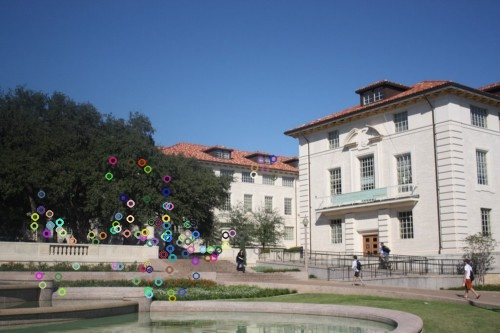
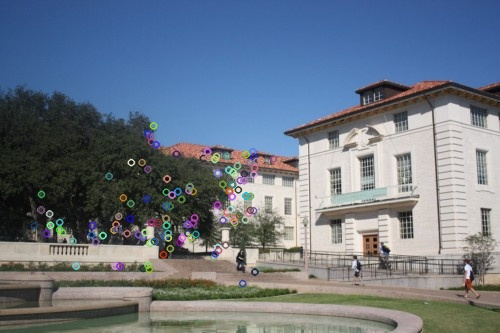
Implement first step of filtering

diff --git a/stitching_code.py b/stitching_code.py
@@ -1,7 +1,7 @@
 import cv2
 import numpy as np
 import matplotlib.pyplot as plt
-from random import randrange
+from scipy import optimize
 
 print("Start!")
 
@@ -10,6 +10,7 @@ right_img2 = cv2.cvtColor(right_img1,cv2.COLOR_BGR2GRAY)
 left_img1 = cv2.imread("left.JPG")
 left_img2 = cv2.cvtColor(left_img1,cv2.COLOR_BGR2GRAY)
 
+# Finding homographies step
 
 sift = cv2.xfeatures2d.SIFT_create()
 # find the keypoints and descriptors with SIFT
@@ -61,7 +62,65 @@ for t in range(tau_H):
         H, masked = cv2.findHomography(kp1_in_distance, kp2_in_distance, cv2.RANSAC, 5.0)
         homographies.append(H)
 
+homographies = np.array(homographies)
 
 
+# Filtering step
+# Screening
+# Remove homographies which are unlikely to give realistic images
+threshold = 0.01 # 0.01 is a standard value 
+(x_max,y_max,z) = right_img1.shape
+corners = np.array([[0, 0, x_max, x_max], [0, y_max, y_max, 0], [1,1,1,1]])
+
+# Convert homogenous cooridnates to euclidian
+def homogenous_to_euclidian(x):
+    height, _  = x.shape
+    return np.true_divide(x[0:height-1, :], x[-1, :])
+
+# Helper function to convert 1D array to similarity matrix
+def convert_1D_array_to_similarity_matrix(x):
+    a = x[0]
+    b = x[1]
+    c = x[2]
+    d = x[4]
+    H_s = [[a, -b, c], [b, a, d], [0,0,1]]
+    return np.array(H_s)
+
+# Find the optimal similarity matrix. This is done by minimizing this function
+def difference_between_similarity_and_H(x, H):
+    H_s = convert_1D_array_to_similarity_matrix(x)
+
+    # Calculate the location of the corners
+    corners_H_s = np.matmul(H_s, corners)
+    corners_H = np.matmul(H, corners)
+    
+    # Convert from homogenous to euclidian
+    corners_H_s = homogenous_to_euclidian(corners_H_s)
+    corners_H = homogenous_to_euclidian(corners_H)
+
+    # Calculate the difference between the corners
+    diff = np.subtract(corners_H_s, corners_H)
+    norm = np.linalg.norm(diff, axis = 0)
+    return np.sum(norm)
+
+homographies_to_keep = []
+for i in range(homographies.shape[0]):
+    H = homographies[i]
+    x0 = [1, 1, 1, 1, 1]
+    H_s = optimize.fmin(difference_between_similarity_and_H, x0, disp = False, args = (H,))
+    
+    difference_normalized = difference_between_similarity_and_H(H_s, H) / (max_x*max_y) # It should be normalized by image size. It's a bit unclear what image size is though...
+    homographies_to_keep.append( difference_normalized< threshold)
+        
+homographies = homographies[homographies_to_keep,:,:]
+
+
+
+# Screening 
+# Remove homographies which are too close to identity
+
+
+
+# Remove duplicates
 
 print("Done!")
